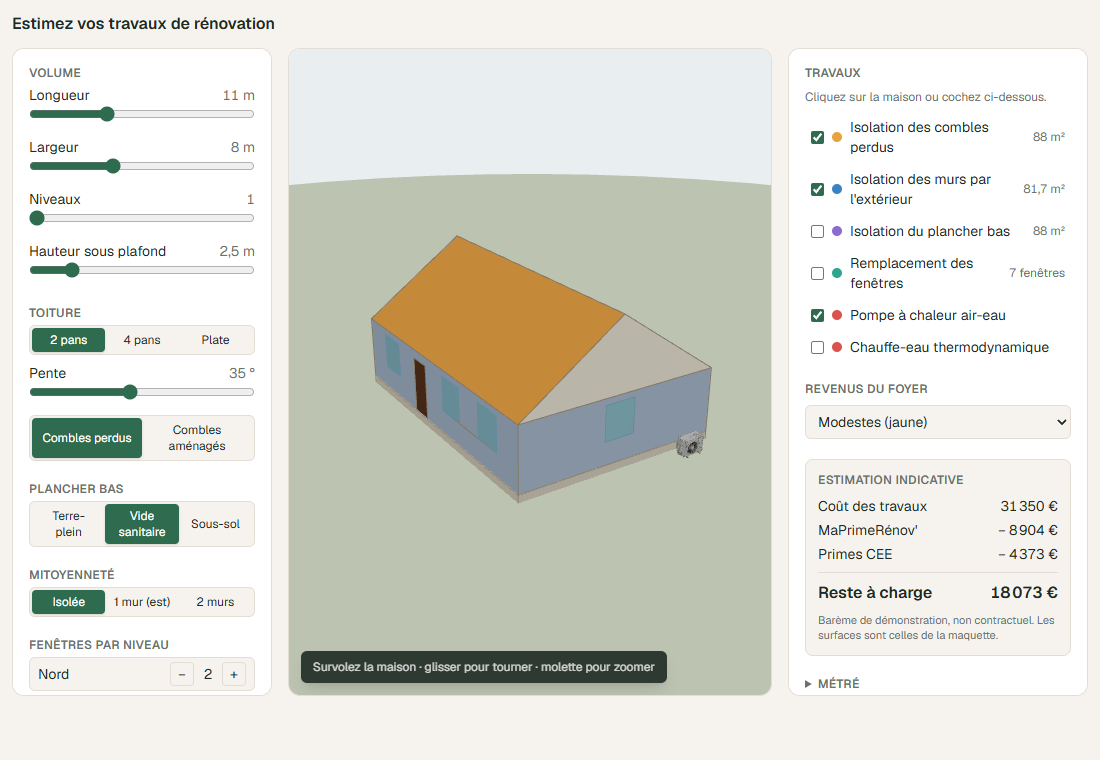
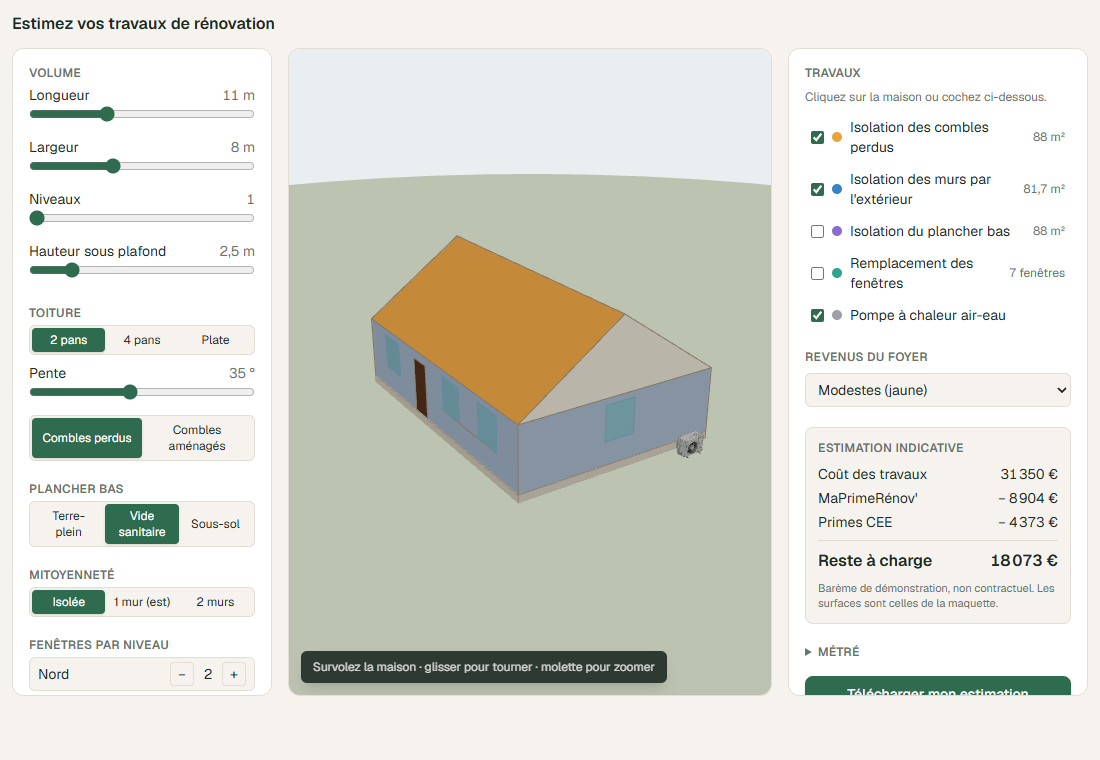
PAC cliquable, chauffe-eau retiré, capture 3D recadrée pour les exports
- Clic sur la PAC dans la vue 3D : retire le poste (survol avec cadre et info)
- Pastille de la PAC en gris, couleur de l'unité extérieure
- Poste « chauffe-eau thermodynamique » supprimé ; le seed purge les lignes de barème obsolètes
- Capture PDF/PNG en 1600 × 1000, recadrée sur la maison depuis le point de vue courant
- Captures du README régénérées

Changed region(s): [[0.7109, 0.4539, 0.9891, 0.9382], [0.7418, 0.3934, 0.7727, 0.4237]]

diff --git a/src/components/house/HouseScene.tsx b/src/components/house/HouseScene.tsx
@@ -67,7 +67,7 @@ export default function HouseScene(props: Props) {
           shadow-camera-bottom={-20}
         />
         <CameraRig house={props.house} pacOn={props.works.has("pac-air-eau")} />
-        {props.snapshotRef && <Snapshot target={props.snapshotRef} />}
+        {props.snapshotRef && <Snapshot target={props.snapshotRef} house={props.house} />}
         <SceneContent {...props} hoverId={hoverId} setHoverId={setHoverId} />
         <OrbitControls
           makeDefault
@@ -79,7 +79,12 @@ export default function HouseScene(props: Props) {
       </Canvas>
       {/* Carte fixe plutôt qu'une infobulle qui suit la souris : jamais coupée par le bord du canvas. */}
       <div className="pointer-events-none absolute bottom-3 left-3 max-w-[calc(100%-1.5rem)] rounded-md bg-foreground/90 px-3 py-2 text-xs text-white shadow-lg">
-        {hovered ? (
+        {hoverId === PAC_HOVER_ID ? (
+          <>
+            <div className="font-medium">Pompe à chaleur air-eau · unité extérieure</div>
+            <div className="opacity-80">Clic pour retirer : {WORK_LABELS["pac-air-eau"].toLowerCase()}</div>
+          </>
+        ) : hovered ? (
           <>
             <div className="font-medium">
               {hovered.label} · {formatM2(props.surfaces.parZone[hovered.id])}
@@ -98,23 +103,59 @@ export default function HouseScene(props: Props) {
   );
 }
 
+/** Distance de caméra qui fait tenir toute la maison dans le cadre, pour un format donné. */
+function fitDistance(house: House, fovDeg: number, aspect: number) {
+  const { longueur, largeur } = house.params;
+  const rayon = 0.5 * Math.hypot(longueur, largeur, house.hauteurMurs + house.hauteurToit + SOCLE) + 1.5;
+  const vfov = THREE.MathUtils.degToRad(fovDeg);
+  const hfov = 2 * Math.atan(Math.tan(vfov / 2) * aspect);
+  return rayon / Math.sin(Math.min(vfov, hfov) / 2);
+}
+
+/** Format des captures (PDF, PNG) : paysage, quel que soit le format du canvas à l'écran. */
+const CAPTURE = { width: 1600, height: 1000 };
+
 /**
- * Capture à la demande : on rend une image puis on lit le canvas dans la même tâche,
- * avant que le navigateur ne vide le tampon (pas besoin de preserveDrawingBuffer).
+ * Capture à la demande, au format CAPTURE et depuis le point de vue courant.
+ * On redimensionne le rendu le temps d'une image, on lit le canvas dans la même tâche
+ * (avant que le navigateur ne vide le tampon, donc sans preserveDrawingBuffer), puis on restaure.
  */
-function Snapshot({ target }: { target: { current: (() => string) | null } }) {
+function Snapshot({ target, house }: { target: { current: (() => string) | null }; house: House }) {
   const gl = useThree((s) => s.gl);
   const scene = useThree((s) => s.scene);
-  const camera = useThree((s) => s.camera);
+  const camera = useThree((s) => s.camera) as THREE.PerspectiveCamera;
+  const controls = useThree((s) => s.controls) as unknown as ControlsLike | null;
   useEffect(() => {
     target.current = () => {
+      const size = gl.getSize(new THREE.Vector2());
+      const ratio = gl.getPixelRatio();
+      const aspect = camera.aspect;
+      const position = camera.position.clone();
+      // Même angle de vue que l'utilisateur, recadré pour que la maison remplisse l'image.
+      const cible = controls?.target ?? new THREE.Vector3(0, SOCLE + house.hauteurMurs / 2, 0);
+      const dir = position.clone().sub(cible).normalize();
+      const distance = fitDistance(house, camera.fov, CAPTURE.width / CAPTURE.height) * 0.9;
+      gl.setPixelRatio(1);
+      gl.setSize(CAPTURE.width, CAPTURE.height, false);
+      camera.aspect = CAPTURE.width / CAPTURE.height;
+      camera.position.copy(cible).addScaledVector(dir, distance);
+      camera.lookAt(cible);
+      camera.updateProjectionMatrix();
       gl.render(scene, camera);
-      return gl.domElement.toDataURL("image/png");
+      const url = gl.domElement.toDataURL("image/png");
+      gl.setPixelRatio(ratio);
+      gl.setSize(size.x, size.y, false);
+      camera.aspect = aspect;
+      camera.position.copy(position);
+      camera.lookAt(cible);
+      camera.updateProjectionMatrix();
+      gl.render(scene, camera);
+      return url;
     };
     return () => {
       target.current = null;
     };
-  }, [gl, scene, camera, target]);
+  }, [gl, scene, camera, controls, target, house]);
   return null;
 }
 
@@ -142,11 +183,7 @@ function CameraRig({ house, pacOn }: { house: House; pacOn: boolean }) {
   const pacFacade = emplacementPac(house.params).facade;
 
   useEffect(() => {
-    const { longueur, largeur } = initial.house.params;
-    const rayon = 0.5 * Math.hypot(longueur, largeur, initial.house.hauteurMurs + initial.house.hauteurToit + SOCLE) + 1.5;
-    const vfov = THREE.MathUtils.degToRad(camera.fov);
-    const hfov = 2 * Math.atan(Math.tan(vfov / 2) * (size.width / size.height));
-    const distance = rayon / Math.sin(Math.min(vfov, hfov) / 2);
+    const distance = fitDistance(initial.house, camera.fov, size.width / size.height);
     const facade = initial.pacOn ? emplacementPac(initial.house.params).facade : "sud";
     const dir = vec(directionVue(facade)).normalize();
     const target = new THREE.Vector3(0, SOCLE + initial.house.hauteurMurs / 2, 0);
@@ -264,8 +301,25 @@ function SceneContent({
       </group>
 
       {works.has("pac-air-eau") && (
-        <group position={[pac.position[0], pac.position[1], pac.position[2]]} rotation-y={pac.rotationY}>
+        <group
+          position={[pac.position[0], pac.position[1], pac.position[2]]}
+          rotation-y={pac.rotationY}
+          onPointerMove={(e) => {
+            e.stopPropagation();
+            if (hoverId !== PAC_HOVER_ID) setHoverId(PAC_HOVER_ID);
+          }}
+          onPointerOut={() => {
+            if (hoverId === PAC_HOVER_ID) setHoverId(null);
+          }}
+          onClick={(e) => {
+            e.stopPropagation();
+            // La PAC disparaît au clic : pointerout ne viendra pas, on efface le survol nous-mêmes.
+            setHoverId(null);
+            onToggleWork?.("pac-air-eau");
+          }}
+        >
           <Pac />
+          {hoverId === PAC_HOVER_ID && <PacHighlight />}
         </group>
       )}
 
@@ -310,6 +364,21 @@ function ZoneMesh({
         polygonOffsetFactor={1}
       />
       <Edges color={verre ? "#5d7f8e" : "#7a6f60"} threshold={15} />
+    </mesh>
+  );
+}
+
+/** Identifiant de survol de la PAC, qui n'est pas une zone de la maison. */
+const PAC_HOVER_ID = "pac";
+
+/** Cadre lumineux autour de la PAC survolée : le modèle GLB garde ses propres matériaux. */
+function PacHighlight() {
+  const [w, h, d] = PAC_DIMENSIONS;
+  return (
+    <mesh position-y={h / 2 + 0.02} raycast={() => null}>
+      <boxGeometry args={[w + 0.12, h + 0.12, d + 0.12]} />
+      <meshBasicMaterial color="#ffffff" transparent opacity={0.12} depthWrite={false} />
+      <Edges color="#ffffff" />
     </mesh>
   );
 }

diff --git a/src/lib/estimate/works.ts b/src/lib/estimate/works.ts
@@ -10,7 +10,6 @@ export const WORK_IDS = [
   "isolation-plancher-bas",
   "menuiseries",
   "pac-air-eau",
-  "ballon-thermo",
 ] as const;
 export type WorkId = (typeof WORK_IDS)[number];
 
@@ -22,7 +21,6 @@ export const WORK_LABELS: Record<WorkId, string> = {
   "isolation-plancher-bas": "Isolation du plancher bas",
   menuiseries: "Remplacement des fenêtres",
   "pac-air-eau": "Pompe à chaleur air-eau",
-  "ballon-thermo": "Chauffe-eau thermodynamique",
 };
 
 /** Couleur de surbrillance de chaque poste dans la vue 3D. */
@@ -33,8 +31,8 @@ export const WORK_COLORS: Record<WorkId, string> = {
   ite: "#3b82c4",
   "isolation-plancher-bas": "#8b6bd1",
   menuiseries: "#2fa58f",
-  "pac-air-eau": "#d9534f",
-  "ballon-thermo": "#d9534f",
+  // Gris de l'unité extérieure : c'est un équipement, pas une zone à colorer.
+  "pac-air-eau": "#9aa0a6",
 };
 
 /** Poste de travaux associé à une zone cliquée, ou null si la zone n'en porte pas. */
@@ -114,7 +112,6 @@ export function workQuantity(w: WorkId, s: Surfaces, p: HouseParams): number {
     case "menuiseries":
       return s.nbFenetres;
     case "pac-air-eau":
-    case "ballon-thermo":
       return 1;
   }
 }

diff --git a/src/db/seed.ts b/src/db/seed.ts
@@ -1,5 +1,7 @@
+import { notInArray } from "drizzle-orm";
 import type { PgDatabase, PgQueryResultHKT } from "drizzle-orm/pg-core";
 import { DEFAULT_BAREME, type BaremeLigne } from "@/lib/estimate/bareme";
+import { WORK_IDS } from "@/lib/estimate/works";
 import { bareme } from "./schema";
 
 type AnyPgDb = PgDatabase<PgQueryResultHKT, Record<string, unknown>>;
@@ -34,7 +36,11 @@ export function fromRow(r: typeof bareme.$inferSelect): BaremeLigne {
   };
 }
 
-/** Insère le barème de démonstration sans écraser une ligne déjà modifiée. */
+/**
+ * Insère le barème de démonstration sans écraser une ligne déjà modifiée,
+ * et retire les postes qui n'existent plus dans le code (ex. le chauffe-eau).
+ */
 export async function seedBareme(db: AnyPgDb) {
+  await db.delete(bareme).where(notInArray(bareme.workId, [...WORK_IDS]));
   await db.insert(bareme).values(DEFAULT_BAREME.map(toRow)).onConflictDoNothing();
 }

diff --git a/src/components/house/WorksSummary.tsx b/src/components/house/WorksSummary.tsx
@@ -26,7 +26,7 @@ export default function WorksSummary({ params, surfaces, works, tranche, estimat
         <ul className="space-y-1">
           {availableWorks(params).map((w) => {
             const q = workQuantity(w, surfaces, params);
-            const unite = w === "menuiseries" ? `${q} fenêtre${q > 1 ? "s" : ""}` : w.startsWith("pac") || w.startsWith("ballon") ? "" : formatM2(q);
+            const unite = w === "menuiseries" ? `${q} fenêtre${q > 1 ? "s" : ""}` : w === "pac-air-eau" ? "" : formatM2(q);
             return (
               <li key={w}>
                 <label className="flex cursor-pointer items-center gap-2 rounded-md px-1.5 py-1 text-sm hover:bg-border/40">

diff --git a/src/lib/estimate/bareme.ts b/src/lib/estimate/bareme.ts
@@ -93,12 +93,4 @@ export const DEFAULT_BAREME: BaremeLigne[] = [
     mpr: { "tres-modeste": 5000, modeste: 4000, intermediaire: 3000, superieur: 0 },
     plafondUnites: 1,
   },
-  {
-    workId: "ballon-thermo",
-    unite: "unite",
-    prixUnitaire: 3500,
-    cee: 150,
-    mpr: { "tres-modeste": 1200, modeste: 800, intermediaire: 400, superieur: 0 },
-    plafondUnites: 1,
-  },
 ];
